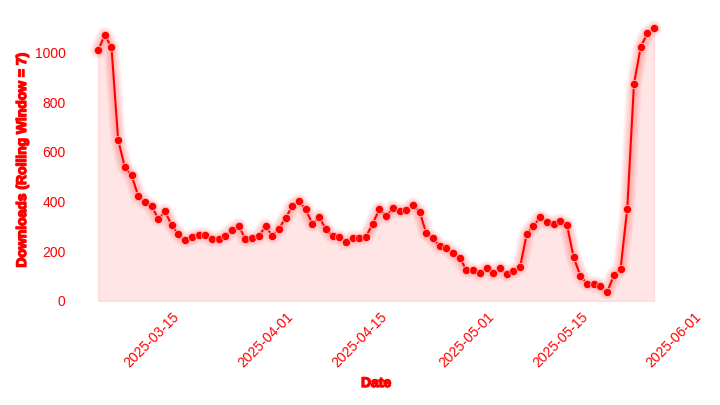
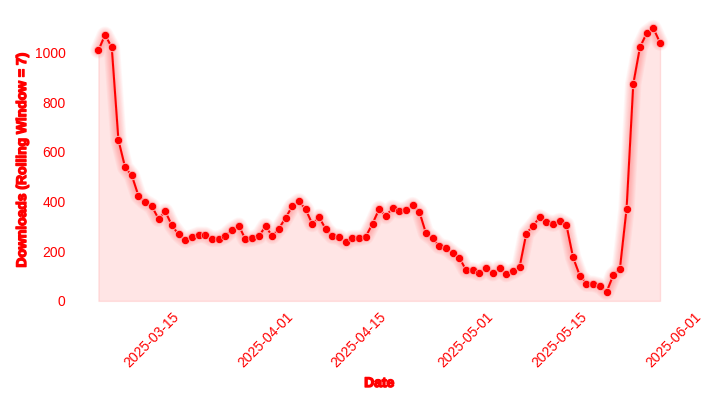
Updating README.md image automatically [skip ci]

diff --git a/README.md b/README.md
@@ -18,6 +18,6 @@
 
 ### Achievements
 
-Authored [boto3-refresh-session](https://github.com/michaelthomasletts/boto3-refresh-session) on PyPI (Total Downloads:  52,401 :tada:)
+Authored [boto3-refresh-session](https://github.com/michaelthomasletts/boto3-refresh-session) on PyPI (Total Downloads:  52,640 :tada:)
 
 ![Downloads](https://raw.githubusercontent.com/michaelthomasletts/michaelthomasletts/refs/heads/main/downloads.png)
